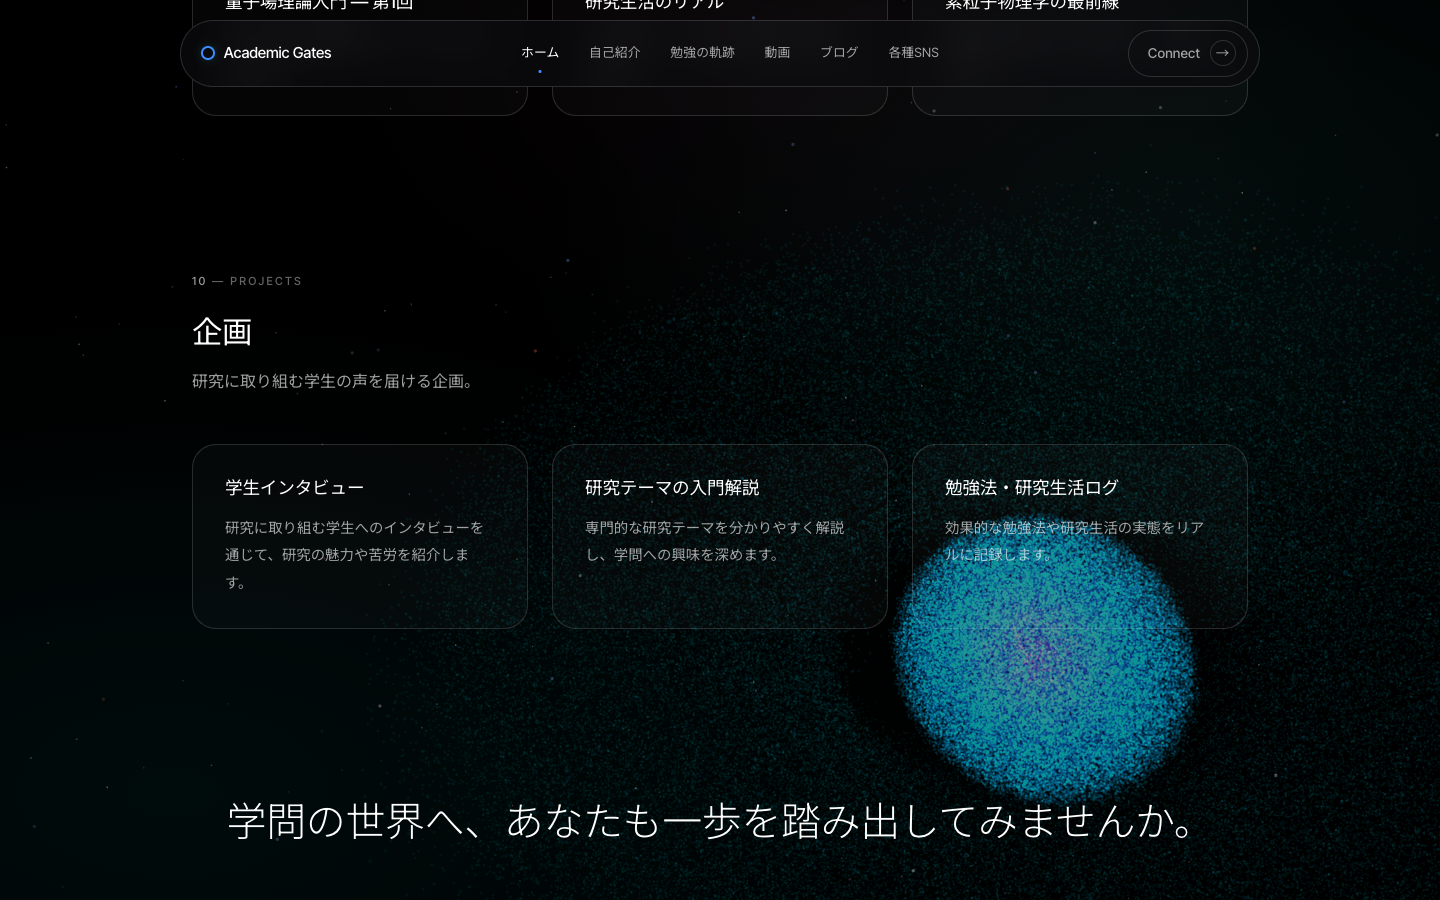
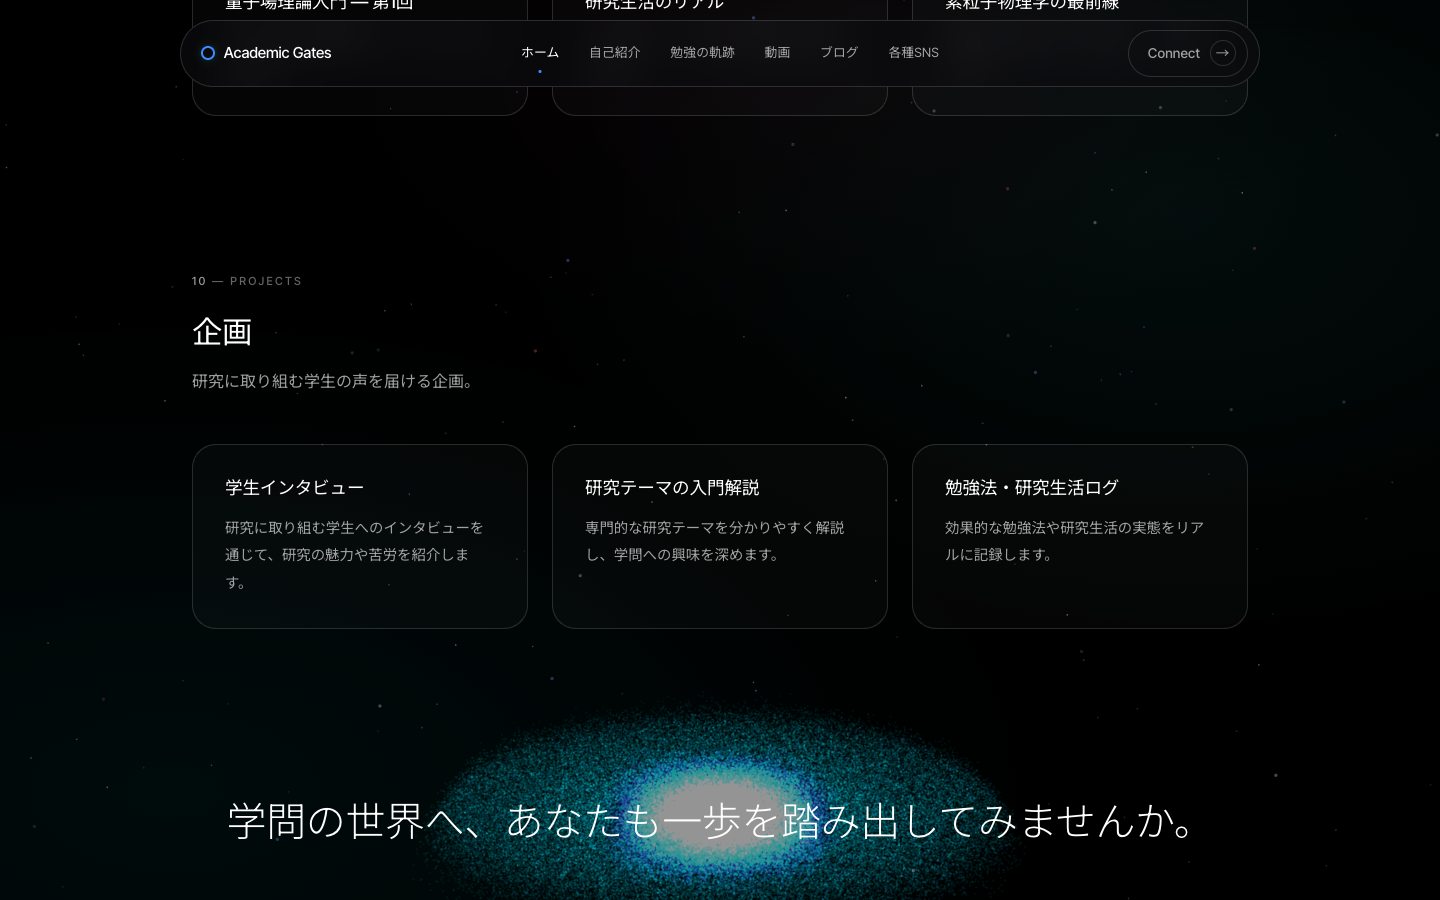
Docs: sphere rotation known-limitation, updated convergence + card stills
DESIGN.md S15.12 records the sphere rotation as a known, declined measurement limitation
(reads 3D by construction/visually; not numerically verified because the structure is
deliberately too low-contrast to track; higher-contrast banding was declined). Updated
convergence + card-region stills.

Claude-Session: https://claude.ai/code/session_01QN4mE29Q2zCvePyqL76fR7

diff --git a/Academic-Gate_hp/DESIGN.md b/Academic-Gate_hp/DESIGN.md
@@ -1130,3 +1130,14 @@ DENSE — no draw-range cut). Convergence holds behind the footer.
   from a saturated blue+magenta block to a teal/cyan gradient with a faint (0.09–0.10α) warm
   accent — §2.3 (warm confined to cores) now holds in the calm reading region.
 - Frame time after all changes: full-page median **16.7 ms, 0 dropped**, GPU 4.7 ms (60 fps).
+
+## 15.12 Sphere rotation — KNOWN MEASUREMENT LIMITATION (closed, declined)
+
+The cosmos sphere (01) reads as a 3D volume **by construction and visually** (uniform-volume
+sampling, angular clumps + radial shells, a tight warm core glowing through the cool volume).
+Its **rotation is not numerically verified**: both frame-diff and cross-correlation fail to
+quantify near/far displacement because the internal structure is deliberately **too low-contrast
+to track** against the dense particle field. A numerically-verifiable rotation cue would require
+higher-contrast banding/filaments, which costs the soft volumetric quality — **this trade was
+offered and declined** (the metric exists to protect the design, not the reverse). No further
+work on the sphere; the 3D read stands on visual + constructional evidence.
